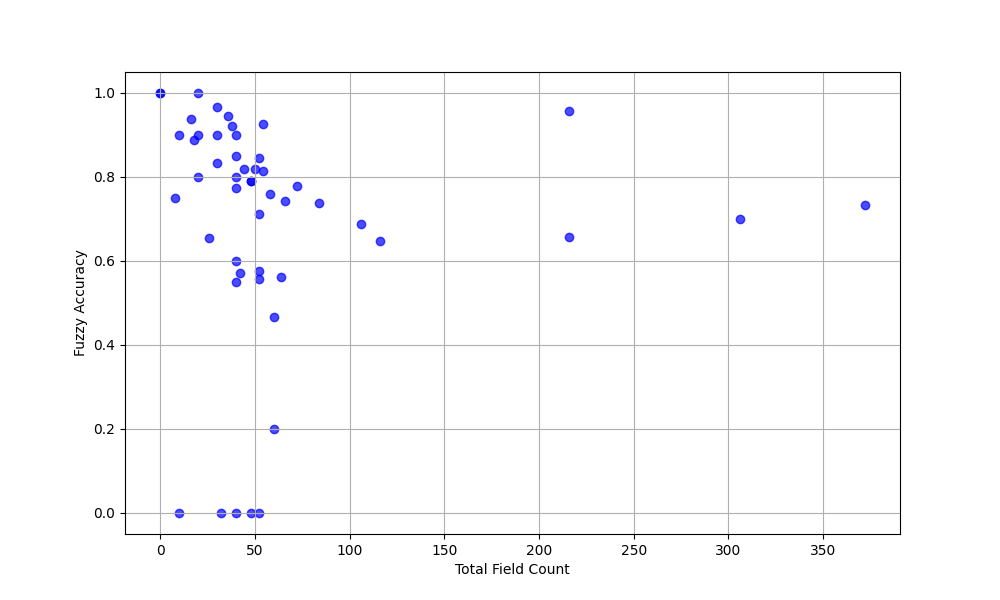
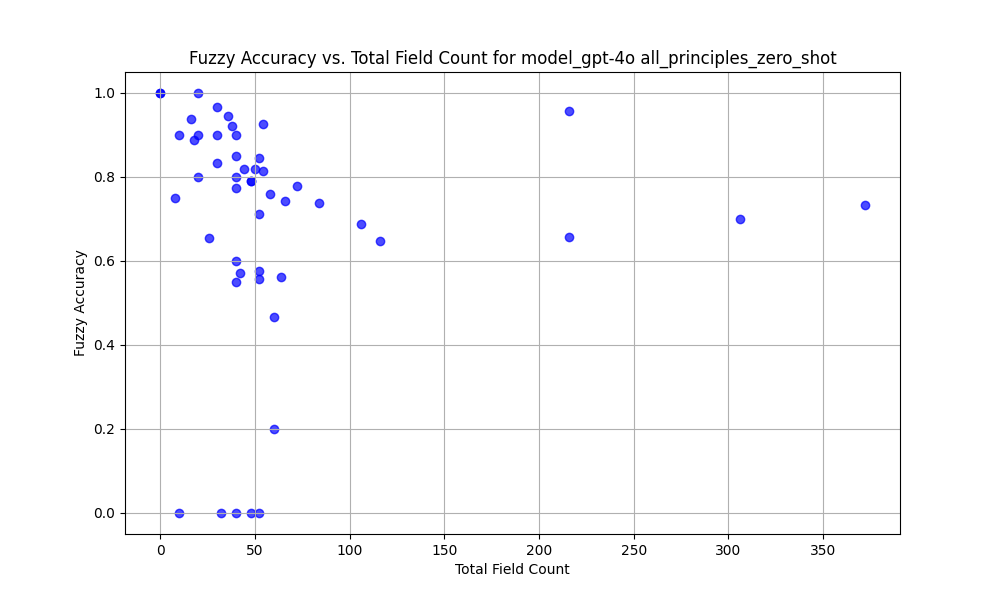
adapt length of model names and representation of fine-tuning metrics for sparse data in plotting. Refs #19.

Changed region(s): [[0.186, 0.09, 0.837, 0.12]]

diff --git a/visualisation/plot_open_ai_metrics.py b/visualisation/plot_open_ai_metrics.py
@@ -16,7 +16,6 @@ class PlotOpenAIMetrics:
         Returns:
             list of tuples: Each tuple contains the model name and the DataFrame of the extracted data.
         """
-
         all_data = []
 
         for folder_name in os.listdir(root_path):
@@ -40,7 +39,7 @@ class PlotOpenAIMetrics:
     @staticmethod
     def plot_metrics(model_name, df, output_dir, file_name):
         """
-        Plots the metrics data and saves the plot to the specified output directory.
+        Plots the metrics data with interpolation for NaN values of specific columns and saves the plot to the specified output directory.
 
         Args:
             model_name (str): The name of the model (used for saving the plot).
@@ -48,36 +47,51 @@ class PlotOpenAIMetrics:
             output_dir (str): The directory where plots will be saved.
             file_name (str): The original name of the file to be used in the plot file name.
         """
+        # Interpolate to fill NaN values for specific columns (valid_loss, valid_mean_token_accuracy)
+        df_interpolated = df.copy()
+        df_interpolated['valid_loss'] = df_interpolated['valid_loss'].interpolate(method='linear')
+        df_interpolated['valid_mean_token_accuracy'] = df_interpolated['valid_mean_token_accuracy'].interpolate(
+            method='linear')
+
         # Create the plots
         plt.figure(figsize=(14, 8))
 
-        # Plot Train Loss
+        # Set a main title for all subplots
+        title_name = os.path.splitext(file_name)[0].replace("result_file_", "")
+        plt.suptitle(f"Fine-Tuning Metrics for {title_name}", fontsize=16)
+
+        # Plot Train Loss as a line plot (complete data)
         plt.subplot(2, 2, 1)
-        plt.plot(df['step'], df['train_loss'], label='Train Loss', color='blue')
+        plt.plot(df['step'], df['train_loss'], linestyle='-', color='blue', label='Train Loss')
         plt.xlabel('Step')
         plt.ylabel('Loss')
         plt.title('Train Loss Over Steps')
         plt.grid(True)
 
-        # Plot Train Accuracy
+        # Plot Train Accuracy as a line plot (complete data)
         plt.subplot(2, 2, 2)
-        plt.plot(df['step'], df['train_accuracy'], label='Train Accuracy', color='green')
+        plt.plot(df['step'], df['train_accuracy'], linestyle='-', color='green', label='Train Accuracy')
         plt.xlabel('Step')
         plt.ylabel('Accuracy')
         plt.title('Train Accuracy Over Steps')
         plt.grid(True)
 
-        # Plot Validation Loss
+        # Plot Validation Loss with interpolation
         plt.subplot(2, 2, 3)
-        plt.plot(df['step'], df['valid_loss'], label='Validation Loss', color='red')
+        plt.plot(df_interpolated['step'], df_interpolated['valid_loss'], linestyle='-', color='red',
+                 label='Validation Loss (Interpolated)')
+        plt.scatter(df['step'], df['valid_loss'], color='red', label='Validation Loss (Original Data)')
         plt.xlabel('Step')
         plt.ylabel('Loss')
         plt.title('Validation Loss Over Steps')
         plt.grid(True)
 
-        # Plot Validation Mean Token Accuracy
+        # Plot Validation Mean Token Accuracy with interpolation
         plt.subplot(2, 2, 4)
-        plt.plot(df['step'], df['valid_mean_token_accuracy'], label='Validation Mean Token Accuracy', color='orange')
+        plt.plot(df_interpolated['step'], df_interpolated['valid_mean_token_accuracy'], linestyle='-', color='orange',
+                 label='Validation Mean Token Accuracy (Interpolated)')
+        plt.scatter(df['step'], df['valid_mean_token_accuracy'], color='orange',
+                    label='Validation Mean Token Accuracy (Original Data)')
         plt.xlabel('Step')
         plt.ylabel('Accuracy')
         plt.title('Validation Mean Token Accuracy Over Steps')

diff --git a/visualisation/plot_mistral_metrics.py b/visualisation/plot_mistral_metrics.py
@@ -16,7 +16,6 @@ class PlotMistralMetrics:
         Returns:
             list of tuples: Each tuple contains the model name and the extracted metrics data.
         """
-
         all_data = []
 
         for folder_name in os.listdir(root_path):
@@ -61,9 +60,18 @@ class PlotMistralMetrics:
         # Create the plots
         plt.figure(figsize=(14, 8))
 
+        title_name = os.path.splitext(file_name)[0].replace("result_file_", "")
+        plt.suptitle(f"Fine-Tuning Metrics for {title_name}", fontsize=16)
+
+        # Determine whether to use scatter plot or line plot
+        plot_type = 'scatter' if len(steps) == 1 else 'plot'
+
         # Plot Train Loss
         plt.subplot(2, 2, 1)
-        plt.plot(steps, train_loss, label='Train Loss', color='blue')
+        if plot_type == 'scatter':
+            plt.scatter(steps, train_loss, label='Train Loss', color='blue')
+        else:
+            plt.plot(steps, train_loss, label='Train Loss', color='blue')
         plt.xlabel('Step')
         plt.ylabel('Loss')
         plt.title('Train Loss Over Steps')
@@ -71,7 +79,10 @@ class PlotMistralMetrics:
 
         # Plot Validation Loss
         plt.subplot(2, 2, 2)
-        plt.plot(steps, valid_loss, label='Validation Loss', color='red')
+        if plot_type == 'scatter':
+            plt.scatter(steps, valid_loss, label='Validation Loss', color='red')
+        else:
+            plt.plot(steps, valid_loss, label='Validation Loss', color='red')
         plt.xlabel('Step')
         plt.ylabel('Loss')
         plt.title('Validation Loss Over Steps')
@@ -79,7 +90,10 @@ class PlotMistralMetrics:
 
         # Plot Validation Mean Token Accuracy
         plt.subplot(2, 2, 3)
-        plt.plot(steps, valid_mean_token_accuracy, label='Validation Mean Token Accuracy', color='orange')
+        if plot_type == 'scatter':
+            plt.scatter(steps, valid_mean_token_accuracy, label='Validation Mean Token Accuracy', color='orange')
+        else:
+            plt.plot(steps, valid_mean_token_accuracy, label='Validation Mean Token Accuracy', color='orange')
         plt.xlabel('Step')
         plt.ylabel('Accuracy')
         plt.title('Validation Mean Token Accuracy Over Steps')

diff --git a/visualisation/plot_accuracy_json_size.py b/visualisation/plot_accuracy_json_size.py
@@ -96,28 +96,35 @@ class JsonSizeScatterPlot:
         return data_point_library
 
     @staticmethod
-    def plot_fuzzy_accuracy_vs_field_count(data_point_set: DataPointSet):
+    def plot_fuzzy_accuracy_vs_field_count(data_point_set):
         x_values = [x.total_field_count for x in data_point_set.data_points]
         y_values = [y.fuzzy_score for y in data_point_set.data_points]
 
         model_name = data_point_set.llm_model
         prompt_name = data_point_set.prompt_name
+        truncated_model_name = model_name.split('mini')[0] + 'mini' if 'mini' in model_name else model_name
 
-        title = f'''Fuzzy Accuracy vs. Total Field Count
-        Exclusion Path: "root[\'id\']"
-        Model: "{model_name}"
-        Prompt Name: "{prompt_name}"'''
+        title = f"Fuzzy Accuracy vs. Total Field Count for {truncated_model_name} {prompt_name}"
 
-        plt.title(title)
+        # Create the figure first
         plt.figure(figsize=(10, 6))
+
+        # Plot the data
         plt.scatter(x_values, y_values, color='blue', alpha=0.7)
         plt.xlabel('Total Field Count')
         plt.ylabel('Fuzzy Accuracy')
         plt.grid(True)
+
+        # Set the title after plotting
+        plt.title(title)
+
+        # Save the figure
         output_dir = os.path.join('output_scatter_plots')
         if not os.path.exists(output_dir):
             os.makedirs(output_dir, exist_ok=True)
         plt.savefig(os.path.join(output_dir, f'overall_scores_{model_name}_{prompt_name}.png'))
+
+        # Close the figure
         plt.close()
 
 

diff --git a/visualisation/box_plot_fuzzy_score.py b/visualisation/box_plot_fuzzy_score.py
@@ -70,7 +70,8 @@ class BoxPlotFuzzyScore:
                 plt.figure(figsize=(10, 6))
                 plt.boxplot(data, patch_artist=True, medianprops=dict(color='black'))
                 plt.xticks(ticks=range(1, len(labels) + 1), labels=labels, rotation=45, ha='right')
-                plt.title(f'Fuzzy Accuracy Box Plot for {prompt_type} - {model_name}')
+                truncated_model_name = model_name.split('mini')[0] + 'mini' if 'mini' in model_name else model_name
+                plt.title(f'Fuzzy Accuracy Box Plot for {prompt_type} - {truncated_model_name}')
                 plt.ylabel('Fuzzy Accuracy')
                 plt.grid(True, linestyle='--', alpha=0.7)
                 plt.tight_layout()

diff --git a/visualisation/scores_error_types.py b/visualisation/scores_error_types.py
@@ -83,7 +83,8 @@ class ErrorTypePlot:
 
         ax.set_xlabel('Excluded Attributes')
         ax.set_ylabel('Error Count')
-        ax.set_title(f'Error Count for {model_name} in {prompt_type} (only fuzzy accuracy)')
+        truncated_model_name = model_name.split('mini')[0] + 'mini' if 'mini' in model_name else model_name
+        ax.set_title(f'Error Count for {truncated_model_name} in {prompt_type} (only fuzzy accuracy)')
 
         ax.set_xticks(bar_positions + (num_error_types / 2 - 0.5) * bar_width)
         ax.set_xticklabels(list(error_counts.keys()), rotation=45, ha='right')

diff --git a/visualisation/scores_for_exclude_paths.py b/visualisation/scores_for_exclude_paths.py
@@ -65,7 +65,8 @@ class ExcludePathsPlot:
 
         ax.set_xlabel('Excluded Attributes')
         ax.set_ylabel('Accuracy')
-        ax.set_title(f'Exact vs Fuzzy Accuracy for {model_name} in {prompt_type}')
+        truncated_model_name = model_name.split('mini')[0] + 'mini' if 'mini' in model_name else model_name
+        ax.set_title(f'Exact vs Fuzzy Accuracy for {truncated_model_name} in {prompt_type}')
         ax.set_xticks(x)
         ax.set_xticklabels(extracted_attributes, rotation=45, ha='right')
         ax.legend(loc='upper left', bbox_to_anchor=(1, 1))

diff --git a/visualisation/scores_overall_accuracy.py b/visualisation/scores_overall_accuracy.py
@@ -59,7 +59,11 @@ class OverallAccuracy:
         ax.set_ylabel('Accuracy')
         ax.set_title('Exact vs Fuzzy Accuracy by Model (Excluding id)')
         ax.set_xticks(x)
-        ax.set_xticklabels(model_names, rotation=45, ha='right')
+        truncated_model_names = [
+            name.split("-2024-07-18")[0] if "-2024-07-18" in name else name for name in
+            model_names]
+
+        ax.set_xticklabels(truncated_model_names, rotation=45, ha='right')
         ax.legend(loc='upper left', bbox_to_anchor=(1, 1))
 
         plt.tight_layout()

diff --git a/visualisation/plot_runtime.py b/visualisation/plot_runtime.py
@@ -52,6 +52,7 @@ class RuntimePlot:
         if not os.path.exists(output_dir):
             os.makedirs(output_dir, exist_ok=True)
         plt.savefig(os.path.join(output_dir, f'runtime_{prompt_name}.png'), bbox_inches='tight')
+        plt.close()
 
 
 if __name__ == '__main__':

diff --git a/visualisation/plot_costs.py b/visualisation/plot_costs.py
@@ -52,6 +52,7 @@ class CostPlot:
         if not os.path.exists(output_dir):
             os.makedirs(output_dir, exist_ok=True)
         plt.savefig(os.path.join(output_dir, f'cost_{prompt_name}.png'), bbox_inches='tight')
+        plt.close()
 
 
 if __name__ == '__main__':
